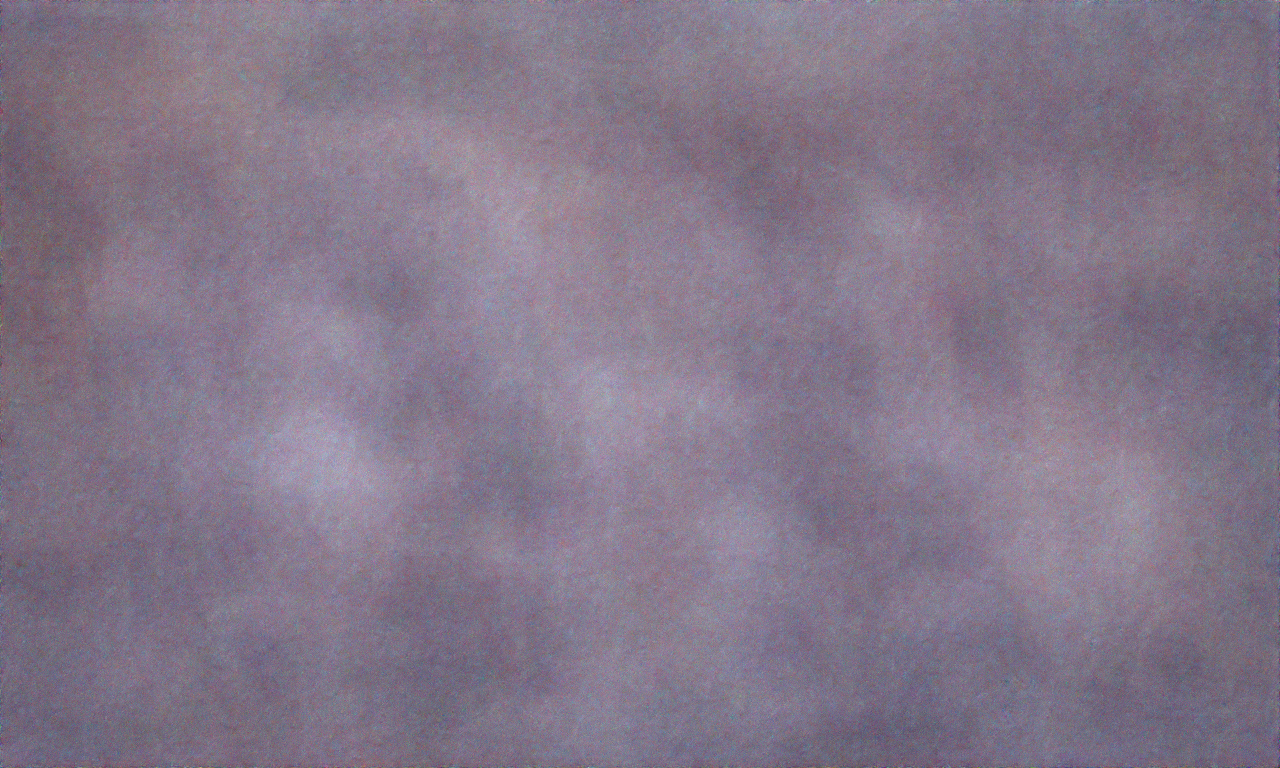
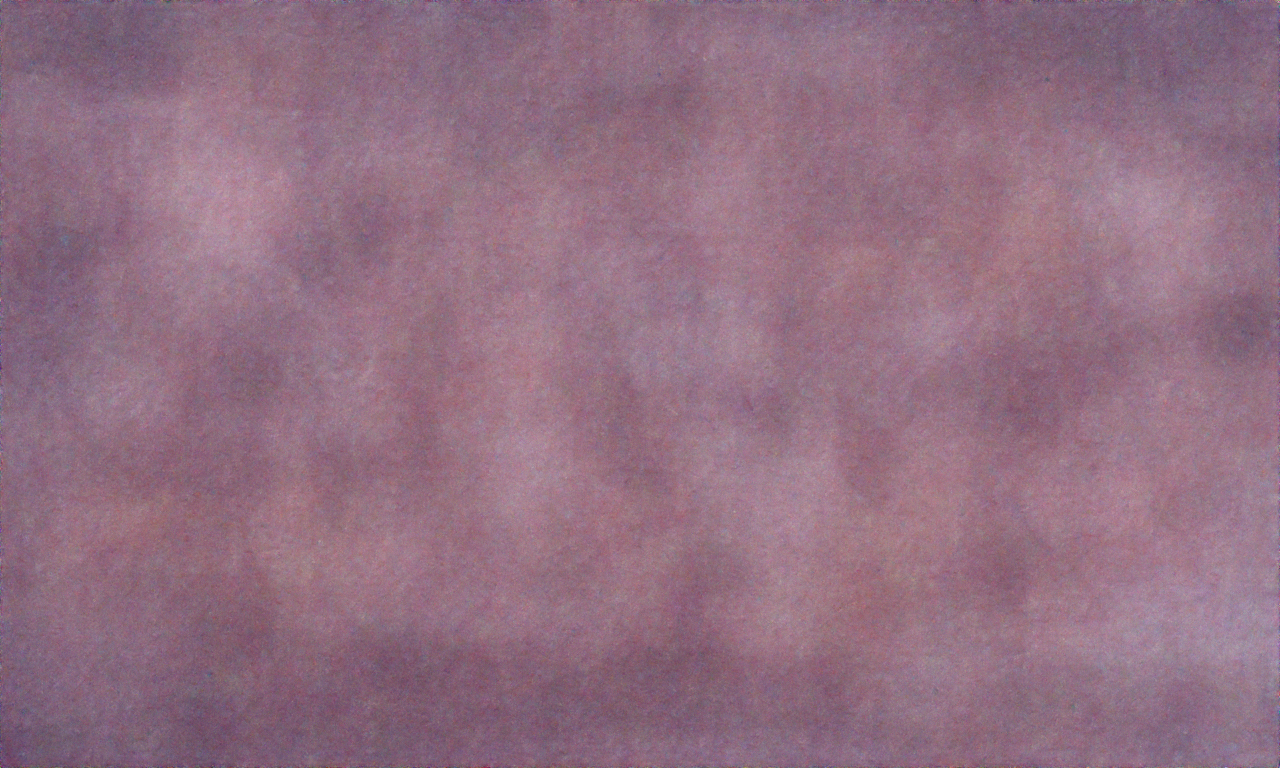
ko

diff --git a/main.py b/main.py
@@ -946,9 +946,9 @@ diffusion_steps = 1000 # param {type: 'number'}
 use_checkpoint = False #@param {type: 'boolean'}
 ViTB32 = True #@param{type:"boolean"}
 ViTB16 = True #@param{type:"boolean"}
-RN101 = False #@param{type:"boolean"}
+RN101 = True #@param{type:"boolean"}
 RN50 = False #@param{type:"boolean"}
-RN50x4 = True #@param{type:"boolean"}
+RN50x4 = False #@param{type:"boolean"}
 RN50x16 = False #@param{type:"boolean"}
 SLIPB16 = False #@param{type:"boolean"}
 SLIPL16 = False #@param{type:"boolean"}
